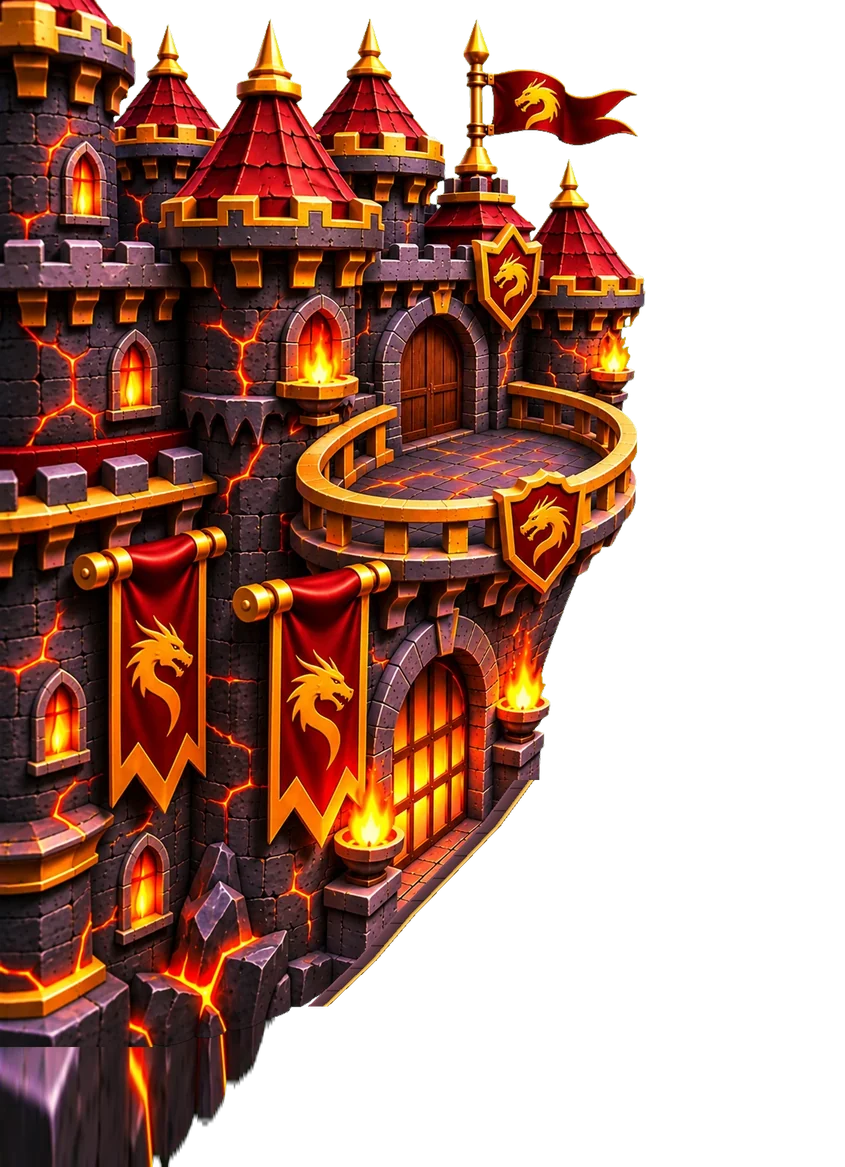
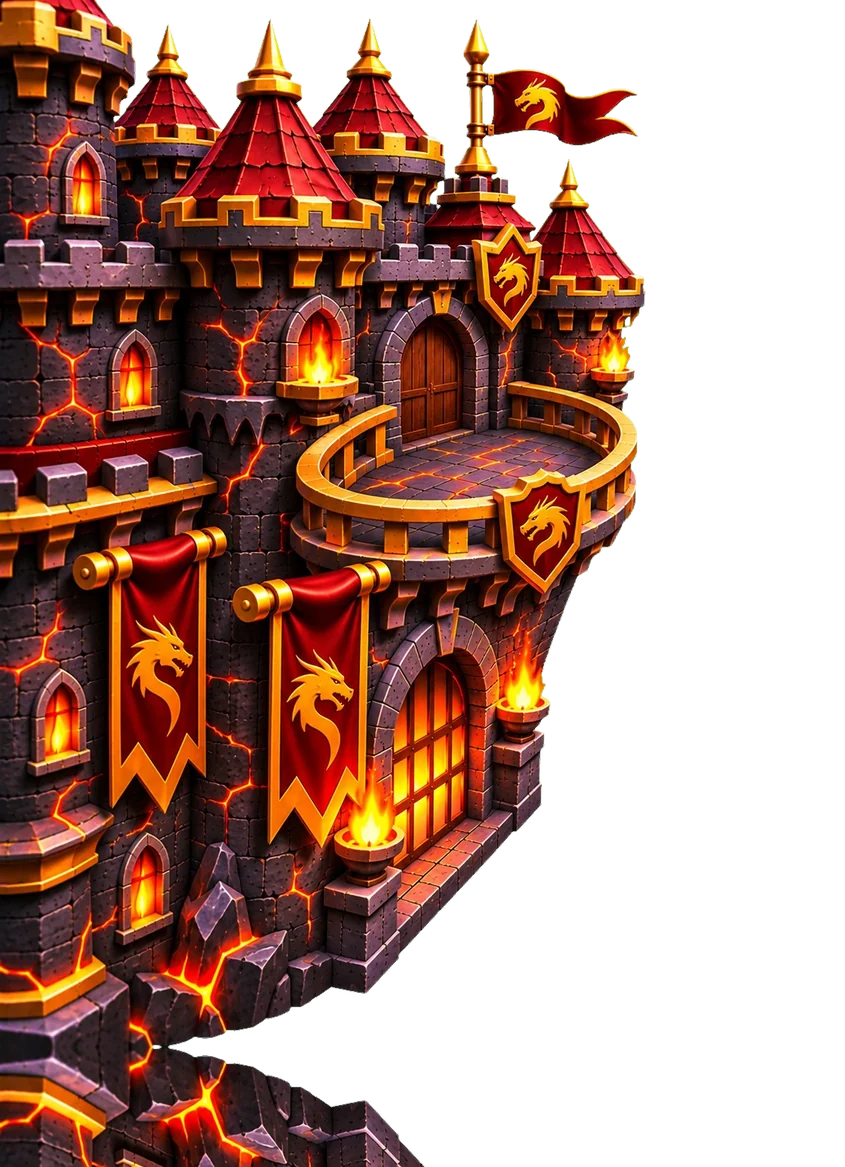
Castles: remove base cut and gold trim; wide-screen margins show the mirrored arena instead of blur
Claude-Session: https://claude.ai/code/session_019FHBnxKyTVWzaJqkftQpoS

Changed region(s): [[0.0, 0.8638, 0.5231, 1.0], [0.3692, 0.6478, 0.6462, 0.8638]]

diff --git a/web/js/castles.js b/web/js/castles.js
@@ -1,3 +1,3 @@
 // gerado por tools/extract-castles-side.py
 window.BB = window.BB || {};
-BB.CASTLES_ART = {"royal_fortress": {"w": 845, "h": 1167, "x": -310, "y": -192, "foot": [488, 484], "gate": [424, 735], "rail": [[300, 510], [420, 542], [525, 542], [634, 458], [636, 540], [570, 589], [420, 596], [300, 574]], "front": [317, 230, 179], "src": "img/castles/royal_fortress.webp"}, "glacial_fortress": {"w": 845, "h": 1167, "x": -310, "y": -192, "foot": [488, 484], "gate": [424, 735], "rail": [[300, 510], [420, 542], [525, 542], [634, 458], [636, 540], [570, 589], [420, 596], [300, 574]], "front": [326, 238, 179], "src": "img/castles/glacial_fortress.webp"}, "draconic_castle": {"w": 845, "h": 1167, "x": -310, "y": -192, "foot": [488, 484], "gate": [424, 735], "rail": [[300, 510], [420, 542], [525, 542], [634, 458], [636, 540], [570, 589], [420, 596], [300, 574]], "front": [323, 236, 179], "src": "img/castles/draconic_castle.webp"}, "sylvan_sanctuary": {"w": 845, "h": 1167, "x": -310, "y": -192, "foot": [488, 484], "gate": [424, 735], "rail": [[300, 510], [420, 542], [525, 542], [634, 458], [636, 540], [570, 589], [420, 596], [300, 574]], "front": [339, 246, 179], "src": "img/castles/sylvan_sanctuary.webp"}, "shadow_necropolis": {"w": 845, "h": 1167, "x": -310, "y": -192, "foot": [488, 484], "gate": [424, 735], "rail": [[300, 510], [420, 542], [525, 542], [634, 458], [636, 540], [570, 589], [420, 596], [300, 574]], "front": [330, 238, 179], "src": "img/castles/shadow_necropolis.webp"}};
+BB.CASTLES_ART = {"royal_fortress": {"w": 845, "h": 1167, "x": -310, "y": -192, "foot": [488, 484], "gate": [424, 735], "rail": [[300, 510], [420, 542], [525, 542], [634, 458], [636, 540], [570, 589], [420, 596], [300, 574]], "front": [317, 230, 176], "src": "img/castles/royal_fortress.webp"}, "glacial_fortress": {"w": 845, "h": 1167, "x": -310, "y": -192, "foot": [488, 484], "gate": [424, 735], "rail": [[300, 510], [420, 542], [525, 542], [634, 458], [636, 540], [570, 589], [420, 596], [300, 574]], "front": [326, 238, 213], "src": "img/castles/glacial_fortress.webp"}, "draconic_castle": {"w": 845, "h": 1167, "x": -310, "y": -192, "foot": [488, 484], "gate": [424, 735], "rail": [[300, 510], [420, 542], [525, 542], [634, 458], [636, 540], [570, 589], [420, 596], [300, 574]], "front": [323, 236, 197], "src": "img/castles/draconic_castle.webp"}, "sylvan_sanctuary": {"w": 845, "h": 1167, "x": -310, "y": -192, "foot": [488, 484], "gate": [424, 735], "rail": [[300, 510], [420, 542], [525, 542], [634, 458], [636, 540], [570, 589], [420, 596], [300, 574]], "front": [339, 246, 236], "src": "img/castles/sylvan_sanctuary.webp"}, "shadow_necropolis": {"w": 845, "h": 1167, "x": -310, "y": -192, "foot": [488, 484], "gate": [424, 735], "rail": [[300, 510], [420, 542], [525, 542], [634, 458], [636, 540], [570, 589], [420, 596], [300, 574]], "front": [330, 238, 229], "src": "img/castles/shadow_necropolis.webp"}};

diff --git a/web/js/render.js b/web/js/render.js
@@ -237,10 +237,17 @@
       const img = this.arena;
       const ready = img.complete && img.naturalWidth;
       if (ready && (this.ox > 1 || this.oy > 1)) {
-        g.save(); g.filter = 'blur(14px) brightness(.7)';
-        const cs = Math.max(this.W / AW, this.H / AH);
-        g.drawImage(img, (this.W - AW * cs) / 2, (this.H - AH * cs) / 2, AW * cs, AH * cs);
-        g.restore();
+        if (this.oy <= 1) {
+          // celular largo: as sobras dos lados mostram a própria arena espelhada (muro e piso continuam, sem desfoque)
+          const w = AW * this.s, h = AH * this.s;
+          g.save(); g.translate(this.ox, 0); g.scale(-1, 1); g.drawImage(img, 0, this.oy, w, h); g.restore();
+          g.save(); g.translate(this.ox + 2 * w, 0); g.scale(-1, 1); g.drawImage(img, 0, this.oy, w, h); g.restore();
+        } else {
+          g.save(); g.filter = 'blur(14px) brightness(.7)';
+          const cs = Math.max(this.W / AW, this.H / AH);
+          g.drawImage(img, (this.W - AW * cs) / 2, (this.H - AH * cs) / 2, AW * cs, AH * cs);
+          g.restore();
+        }
       }
       let sh = 0;
       if (this.shake > 0) { this.shake -= dt; sh = this.shake * 14; }

diff --git a/tools/extract-castles-side.py b/tools/extract-castles-side.py
@@ -18,7 +18,7 @@ RAIL = [(400, 680), (560, 722), (700, 722), (845, 610), (848, 720), (760, 785), 
 BARON = (178, 292)      # pé do Barão na arena
 LANES_Y = (322, 472, 652)
 PAD_BOTTOM = 160
-# base: todos terminam na mesma diagonal (a da Fortaleza Real); o que passar dela é cortado (borda suave)
+# (sem uso) base: todos terminam na mesma diagonal (a da Fortaleza Real); o que passar dela é cortado (borda suave)
 BASE_CUT = [(1040, 712), (1100, 668), (1160, 611), (1220, 553), (1280, 502), (1396, 380), (1556, 220)]        # castelo continua para baixo (atrás da barra de cartas, celulares mais altos)
 
 
@@ -88,16 +88,11 @@ def main():
     for cid in IDS:
         a = np.asarray(Image.open(os.path.join(SRC, cid + '.webp')).convert('RGB')).astype(np.float32)
         k = key(a)
-        ys = np.arange(k.shape[0])
-        lim = np.interp(ys, [p[0] for p in BASE_CUT], [p[1] for p in BASE_CUT], left=1e9)
-        xs = np.arange(k.shape[1])[None, :]
-        cut = np.clip((lim[:, None] - xs) / 3.0, 0, 1)
-        k[..., 3] = (k[..., 3] * cut).astype(np.uint8)
-        k = finish_edge(k, lim)
         im = Image.fromarray(k)
         # prolonga a base para baixo (estica as últimas linhas): não aparece fundo embaixo do castelo
-        base = im.crop((0, im.height - 40, im.width, im.height)).resize((im.width, PAD_BOTTOM + 40))
-        tall = Image.new('RGBA', (im.width, im.height + PAD_BOTTOM)); tall.paste(base, (0, im.height - 40)); tall.alpha_composite(im, (0, 0))
+        # continua para baixo com o reflexo da parte de baixo do próprio castelo (sem esticar: nada embaçado)
+        base = im.crop((0, im.height - PAD_BOTTOM, im.width, im.height)).transpose(Image.FLIP_TOP_BOTTOM)
+        tall = Image.new('RGBA', (im.width, im.height + PAD_BOTTOM)); tall.paste(im, (0, 0)); tall.paste(base, (0, im.height))
         im = tall.resize((round(tall.width * s), round(tall.height * s)), Image.LANCZOS)
         im.save(os.path.join(OUT, cid + '.webp'), 'WEBP', quality=86, method=6)
         x, y = round(BARON[0] - FOOT[0] * s), round(BARON[1] - FOOT[1] * s)
